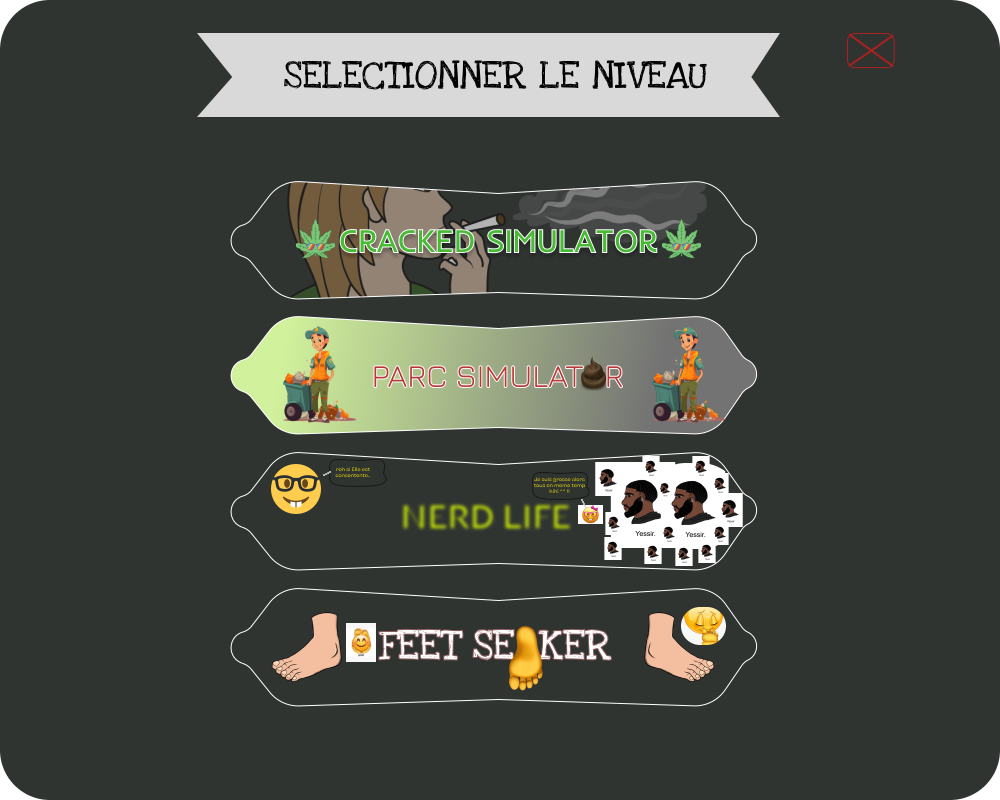
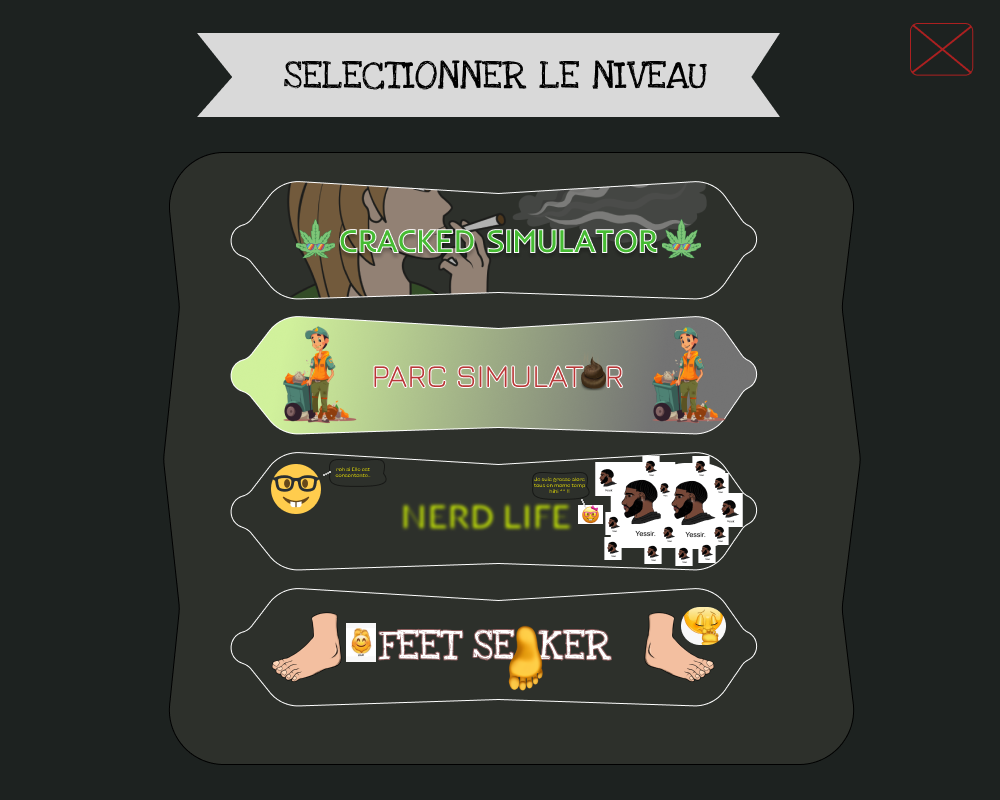
Effet hover sur le menu + bouton selection niveau marche +-

diff --git a/menu.py b/menu.py
@@ -1,6 +1,4 @@
 import pygame
-import sys
-import os
 
 from CreateButton import *
 from PygameFonct import *
@@ -22,12 +20,10 @@ class Menu:
 
         while True:
 
-            self.PyFonct.RecupererEvenement()
+            point = self.PyFonct.RecupererEvenement()
+            self.ClickMenu(point)
 
-            # self.Hover()
-
-            self.ClickMenu()
-
+            self.Hover()
 
 
             self.PyFonct.actualiserFenetreGraphique()
@@ -37,25 +33,24 @@ class Menu:
         point = self.PyFonct.MouseCOORD()
         if point is not None:
             if self.Button.RangePolygone(Const.BTNPLAY_ACCUEIL, point):
-                self.PyFonct.afficherImage(231, 229,self.PyFonct.triangle_selection)    # x + 4 et y + 8
+                self.PyFonct.afficherImage(231, 229,self.PyFonct.triangle_selection)
 
                 # Afficher le choix de jeu
 
             elif self.Button.RangePolygone(Const.BTNSETTING_ACCUEIL, point):
-                self.PyFonct.afficherImage(231, 344, self.PyFonct.triangle_selection)  # x + 4 et y + 8
+                self.PyFonct.afficherImage(231, 368, self.PyFonct.triangle_selection)
 
             elif self.Button.RangePolygone(Const.BTNQUIT_ACCUEIL, point):
-                self.PyFonct.afficherImage(231, 515, self.PyFonct.triangle_selection)  # x + 4 et y + 8
+                self.PyFonct.afficherImage(231, 515, self.PyFonct.triangle_selection)
             else:
-                self.PyFonct.effacerImageInterne()
+                self.PyFonct.effacerImageInterne(self.PyFonct.accueil)
 
 
-    def ClickMenu(self):
-        point = self.PyFonct.RecupererEvenement()
+    def ClickMenu(self,point):
         if point is not None:
             print(point)
             if self.Button.RangePolygone(Const.BTNPLAY_ACCUEIL, point):
-                self.PyFonct.afficherImage(231, 229, self.PyFonct.triangle_selection)    # x + 4 et y + 8
+                self.PyFonct.effacerImageInterne(self.PyFonct.choixniveau)
 
                 # Afficher le choix de jeu
 
@@ -63,6 +58,4 @@ class Menu:
                 self.PyFonct.afficherImage(231, 344, self.PyFonct.triangle_selection)  # x + 4 et y + 8
 
             elif self.Button.RangePolygone(Const.BTNQUIT_ACCUEIL, point):
-                pygame.quit()
-            else:
-                self.PyFonct.effacerImageInterne()
+                exit()

diff --git a/brouillon.py b/brouillon.py
@@ -1,0 +1,46 @@
+import pygame
+import sys
+
+# Initialisation de Pygame
+pygame.init()
+
+# Définition des couleurs
+BLACK = (0, 0, 0)
+WHITE = (255, 255, 255)
+
+# Définition de la taille de la fenêtre
+WIDTH, HEIGHT = 800, 600
+screen = pygame.display.set_mode((WIDTH, HEIGHT))
+pygame.display.set_caption("Clics de Souris")
+
+
+# Fonction pour afficher un message à l'écran
+def afficher_message(message):
+    font = pygame.font.Font(None, 36)
+    text = font.render(message, True, BLACK)
+    text_rect = text.get_rect(center=(WIDTH // 2, HEIGHT // 2))
+    screen.blit(text, text_rect)
+
+
+# Boucle principale du programme
+running = True
+while running:
+    # Gestion des événements
+    for event in pygame.event.get():
+        if event.type == pygame.QUIT:
+            running = False
+        elif event.type == pygame.MOUSEBUTTONDOWN:
+            # Récupération des coordonnées du clic de souris
+            mouse_pos = pygame.mouse.get_pos()
+            print("Clic détecté aux coordonnées :", mouse_pos)
+
+    # Effacer l'écran
+    screen.fill(WHITE)
+    # Afficher un message à l'écran
+    afficher_message("Cliquez n'importe où !")
+    # Rafraîchir l'affichage
+    pygame.display.flip()
+
+# Quitter Pygame
+pygame.quit()
+sys.exit()

diff --git a/PygameFonct.py b/PygameFonct.py
@@ -6,9 +6,11 @@ from CreateButton import *
 class PyFonct:
     def __init__(self):
 
-        self.accueil = pygame.image.load(Const.ECRANACCUEIL)
         self.logo = pygame.image.load(Const.LOGO)
+
+        self.accueil = pygame.image.load(Const.ECRANACCUEIL)
         self.triangle_selection = pygame.image.load(Const.TRIANGLE_SELECTION)
+        self.choixniveau = pygame.image.load(Const.CHOIXNIV)
 
         # Initialisation de pygame
         pygame.init()
@@ -18,9 +20,6 @@ class PyFonct:
 
         pygame.display.set_icon(self.logo)
         self.screen.fill(Const.WHITE)
-
-
-
 
 
     def MouseCOORD(self):
@@ -50,5 +49,5 @@ class PyFonct:
     def actualiserFenetreGraphique(self):
         pygame.display.update()
 
-    def effacerImageInterne(self):
-        self.screen.blit(self.accueil, (0, 0, 1016, 780), (0, 0, Const.WIDTH, Const.HEIGHT))
+    def effacerImageInterne(self,image):
+        self.screen.blit(image, (0, 0, 1016, 780), (0, 0, Const.WIDTH, Const.HEIGHT))

diff --git a/Constante.py b/Constante.py
@@ -17,9 +17,14 @@ class Const:
 
 
     #Constante d'image
-    ECRANACCUEIL = "Images/Menu/Accueil.png"
     LOGO = "Images/Autre/Logo.png"
+
+    ECRANACCUEIL = "Images/Menu/Accueil.png"
     TRIANGLE_SELECTION = 'Images/Autre/Triangle.png'
+
+    CHOIXNIV = "Images/Menu/Choix.png"
+
+
 
 
     #COULEURS

diff --git a/InitialisationMenu.py b/InitialisationMenu.py
@@ -27,5 +27,6 @@ class Init_Menu():
         print('3')
 
     def actualiserFenetreGraphique(self):
+        pyg.display.flip()
         pyg.display.update()
 
